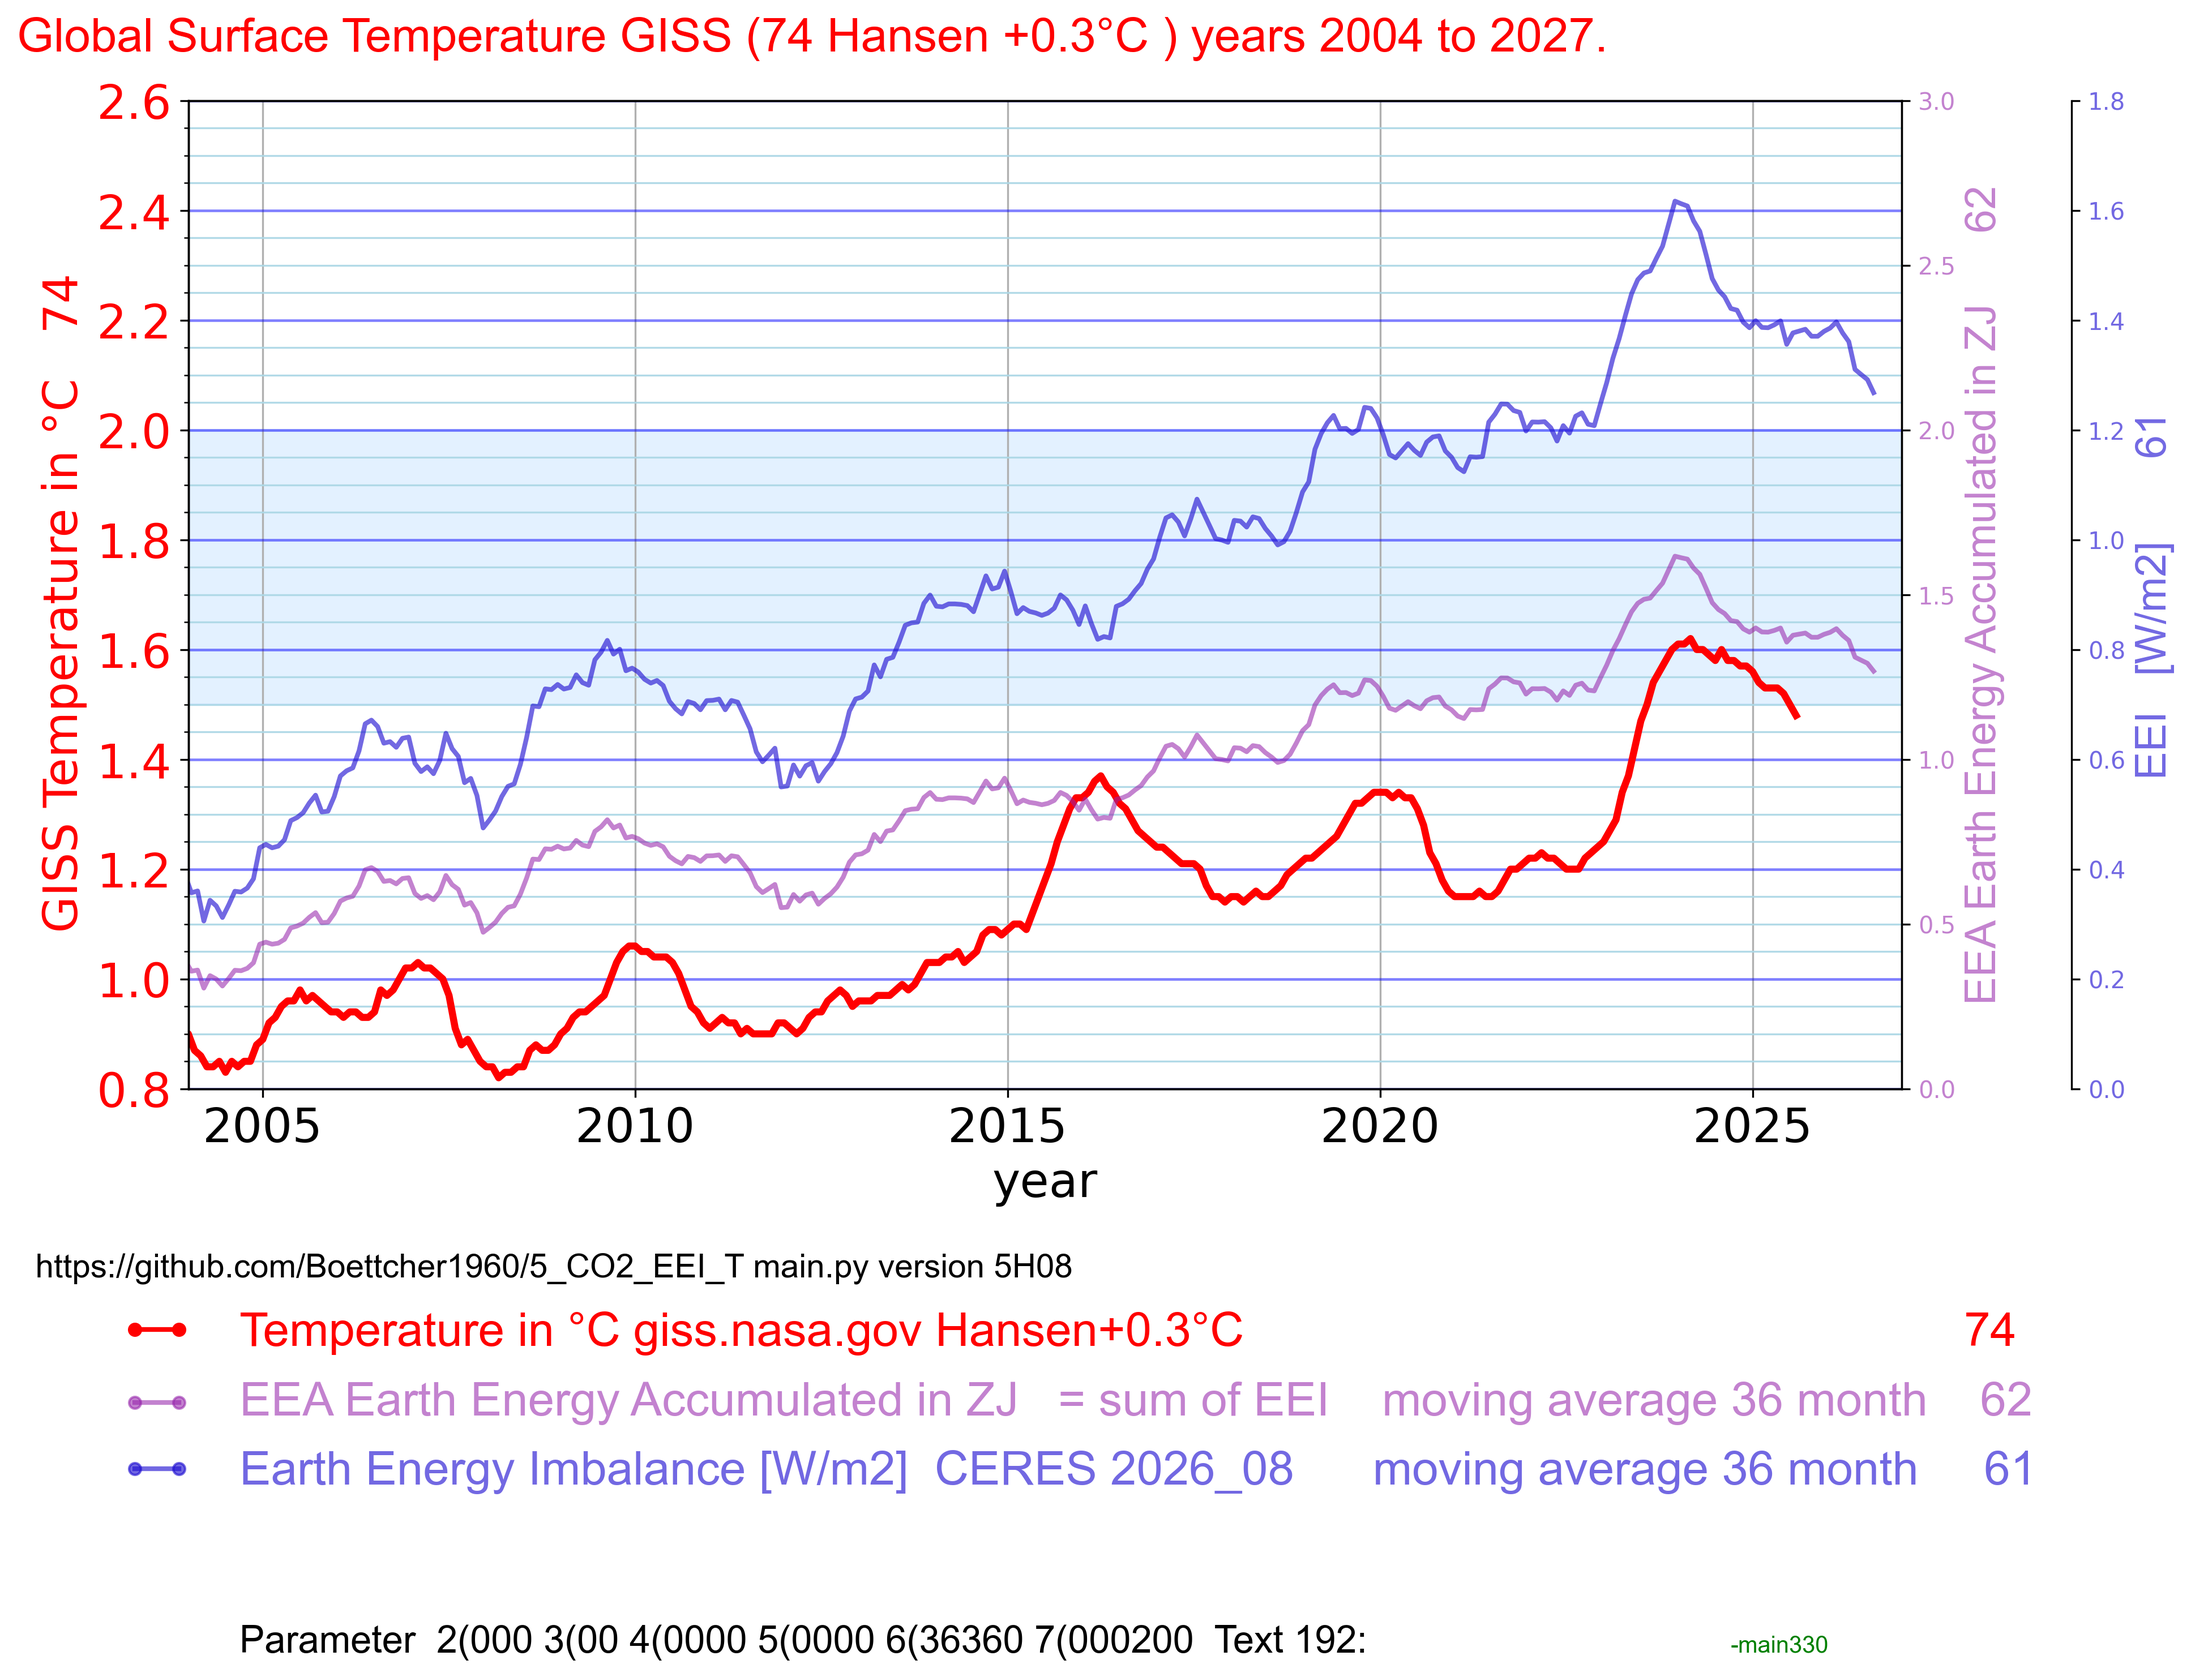
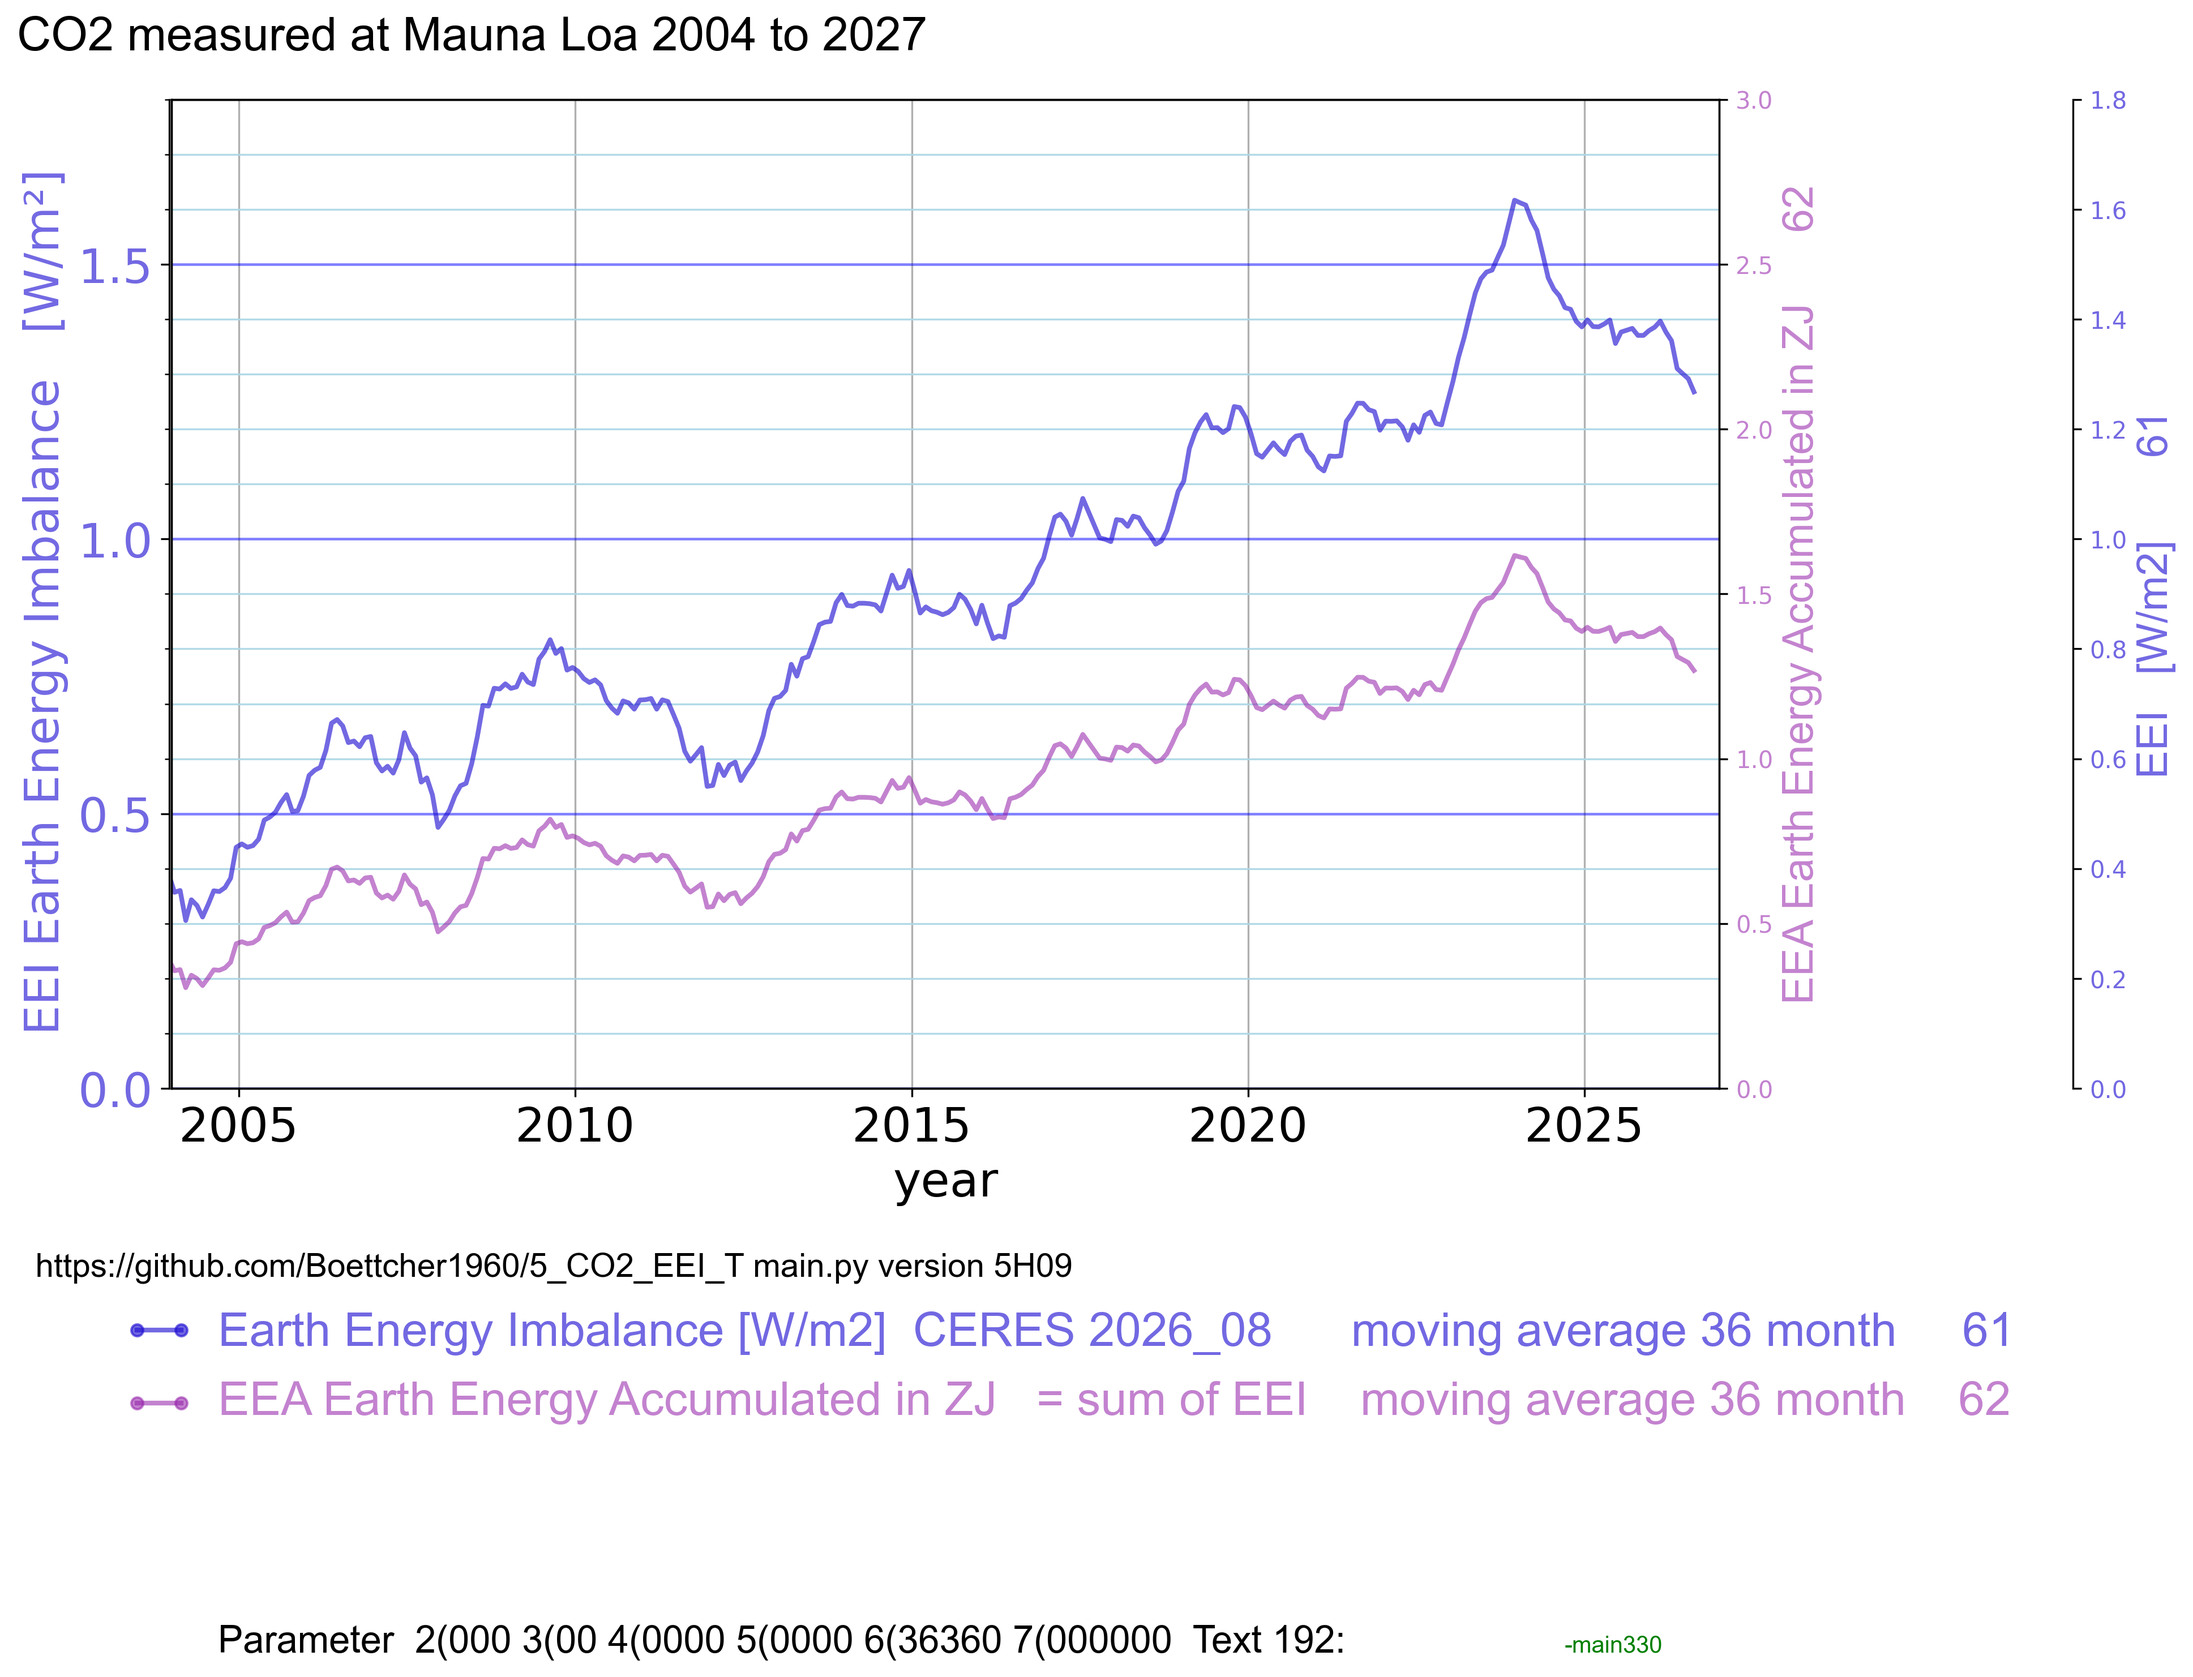
h09

diff --git a/config.py b/config.py
@@ -45,7 +45,6 @@ plot56_delta_CO2_4years = 0 # # no curve is visible 3, 4
 # https://bsky.app/profile/thomas-boettcher.bsky.social/post/3mnkupgsz7s2k
 
 play_61_EEI = 36    # 12, 24, 36, 48 create 1..12..48..99 CERES EEI.csv _c61_out_ceres.csv // copy to 41_ceres_eei
-# play_62_EEA ist doppelt zu play_66_OLR
 play_62_EEA = 36    # 12, 48  Earth Energy Accumulated EEA is sum of EEI
 play_63_CB    = 0 # 5 carbon brief CO2 values https://ourworldindata.org/grapher/cumulative-co-emissions?country=~OWID_WRL&overlay=download-data
 play_64_ASR_anomaly = 0 # 12 # 12, 48 # absorbed solar radiation ASR anomaly = 1.48 W/m² 2.1_anom_TOA_Shortwave_Flux_-_All-Sky
@@ -55,24 +54,20 @@ play_67_albedo = 0   # create 1..12..48..99 CERES
 play68_ERA = 0 # 1461, 1095, 720, 365, 24
     # https://sites.ecmwf.int/data/climatepulse/data/series/era5_daily_series_2t_global.csv
 # variable to show play variable in line 4
-line2_play = 0   # 61
+line2_play = 61   # 61
 line3_play = 62  #  play_62_EEA #   68 play68_ERA = 720
-line4_play = 61  # 61 play_61_EEI = 36 
+line4_play = 0  # 61 play_61_EEI = 36 
 line5_play = 0   # 62 61
 
 plot71_temperature = 0
 plot72_AESS_T = 0
 plot73_ECS_T = 0
-plot74_GIS_T = 2 # 2, 3,4,5 =right y axis
+plot74_GIS_T = 0 # 2, 3,4,5 =right y axis
 linear_41_75 = 0 # 3 4 5
 plot76_my_T = 0
 plot_T_77 = 0 # 3, 4
 
 parameter84_save_png = 8
-
-line3 = 0 # 0 means, line 3 is not used
-line4 = 74 # 0 means, line 4 is not used
-line5 = 42 # 0 means, line 5 is not used
 
 # Colors
 c21 = "blue"

diff --git a/plotting.py b/plotting.py
@@ -246,6 +246,15 @@ def plot_1_axe(ax1):
         y_minor_ticks = 0.1
         ax1.yaxis.set_major_locator(MultipleLocator(y_mayor_ticks))
         ax1.yaxis.set_minor_locator(MultipleLocator(y_minor_ticks))
+    elif line2_play == 61:  # play_61_EEI = 36
+        ax1.spines.left.set_position(("outward", 1))
+        ax1.set_ylim(y_61min, y_61max)
+        ax1.set_ylabel("EEI Earth Energy Imbalance   [W/m²] ", color=c61, fontsize=20)
+        ax1.tick_params(axis="y", labelcolor=c61, labelsize=20)
+        y_mayor_ticks = 0.500 
+        y_minor_ticks = 0.100
+        ax1.yaxis.set_major_locator(MultipleLocator(y_mayor_ticks))
+        ax1.yaxis.set_minor_locator(MultipleLocator(y_minor_ticks))
     else:    
         ax1.set_ylim(y_min, y_max)
         ax1.set_ylabel(" else generic y axe CO₂ in ppm  (plot146) ", color=c22, fontsize=20)

diff --git a/text.py b/text.py
@@ -220,6 +220,10 @@ def text_9_print_7_lines(fig, ax1, header_parameter):
         text_4_add_text(ax1, tr2x, tr2y, 
                     "ASR Absorbed Solar Radiation =input-output in [W/m²] moving average 48 month   46", 
                     c46, trs)
+    elif play_61_EEI > 0 and line2_play == 61:
+                text_3_add_legend_line(fig, lr2x1, lr2x2, lr2y, c61)
+                p61_text = f"Earth Energy Imbalance [W/m2]  CERES 2026_08      moving average {play_61_EEI} month     61"
+                text_4_add_text(ax1, tr2x, tr2y, p61_text, c61, trs) 
     elif plot71_temperature == 2: # 71.5 legend
         text_3_add_legend_line(fig, lr2x1, lr2x2, lr2y, c71)
         text_4_add_text(ax1, tr2x, tr2y, 

diff --git a/main.py b/main.py
@@ -1,5 +1,5 @@
 # main.py
-v = "5H08" # line4_play = 61
+v = "5H09" # line4_play = 61
 # https://github.com/Boettcher1960/5_CO2_EEI_T
 # ocean stratification https://bsky.app/profile/thomas-boettcher.bsky.social/post/3mj7zx7fzsc26
 # https://drtomharris.substack.com/p/the-great-decoupling-how-ocean-stratification
